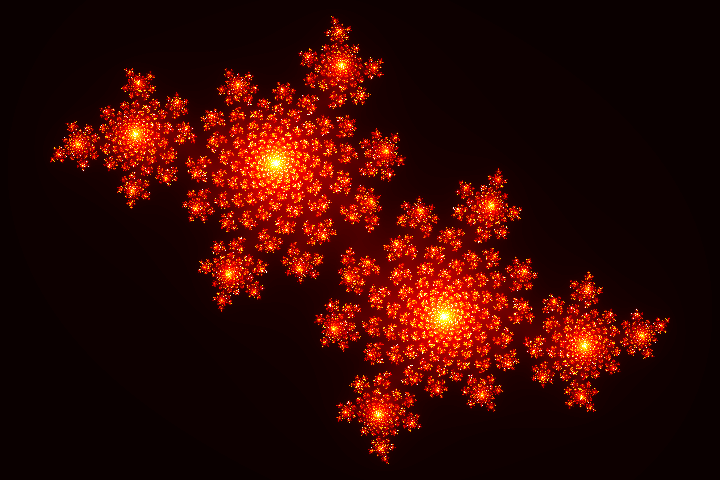
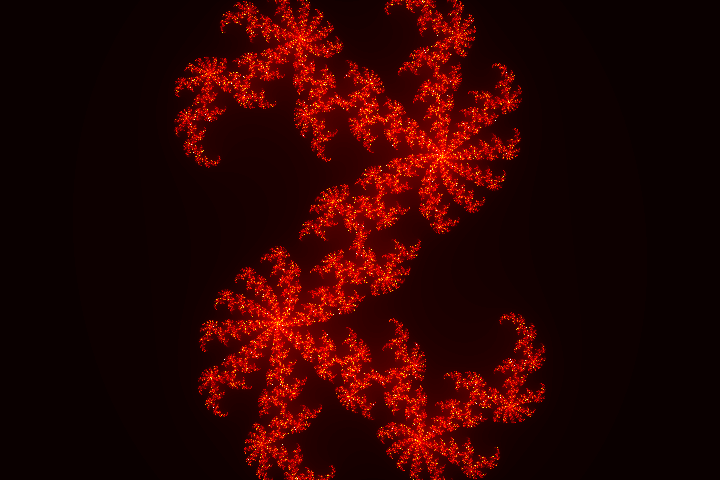
Readme for Julia set done

diff --git a/Julia/julia.py b/Julia/julia.py
@@ -30,7 +30,7 @@ def plot(Frac, height, width):
     # For some reason we want to flip the image 
     # upside down and then plot
     plt.imshow(flipud(Frac), cmap='hot')
-    plt.savefig('julia.png')
+    plt.savefig('julia_0.355_0.355.png')
     plt.show()
     plt.close()
 

diff --git a/README.md b/README.md
@@ -1,10 +1,22 @@
-# Hobby
+                                          #Hobby
+## Python related coding exercises with real-life applications.
+**What are FRACTALS**
 
-Python related coding exercises with real-life applications.
+A fractal is a never-ending pattern. Fractals are infinitely complex patterns that are self-similar across different scales.They are created by repeating a simple process over and over in an ongoing feedback loop.
 
-This is a picture of Julia fractal:
+**Julia Set FRACTALS**
+The Julia set is named after the French mathematician Gaston Julia who investigated their properties circa 1915 and culminated in his famous paper in 1918.While the Julia set is now associated with a simpler polynomial, Julia was interested in the iterative properties of a more general expression, namely z4 + z3/(z-1) + z2/(z3 + 4 z2 + 5) + c.The Julia set is now associated with those points z = x + iy on the complex plane for which the series zn+1 = zn2 + c does not tend to infinity. c is a complex constant, one gets a different Julia set for each c.The initial value z0 for the series is each point in the image plane. In the broader sense the exact form of the iterated function may be anything, the general form being zn+1 = f(zn), interesting sets arise with non-linear functions f(z). The image is created by mapping each pixel to a rectangular region of the complex plane. Each pixel then represents the starting point for the series, z0. The series is computed for each pixel and if it diverges to infinity it is drawn in white, if it doesn't then it is drawn black.Another property of Julia sets relates to the various domains of c. If c is real then the Julia set is mirrored about the real axis. Other values of c with a non-zero imaginary component have 180 degree rotational symmetry.
 
+Some of the patterns obtained for different values of c are shown below:
+For c = 0.37+0.1i :
 <img src="Julia/julia.png" width="400"/>
+For c = -0.4+-0.59i :
+<img src="Julia/julia_0.4_0.59.png" width="400"/>
+For c = 0.355+0.355i :
+<img src="Julia/julia_0.355_0.355.png" width="400"/>
+For c = -0.54+0.54i :
+<img src="Julia/julia_0.54_0.54.png" width="400"/>
+
 
 Graph of probability generated from program:
 
